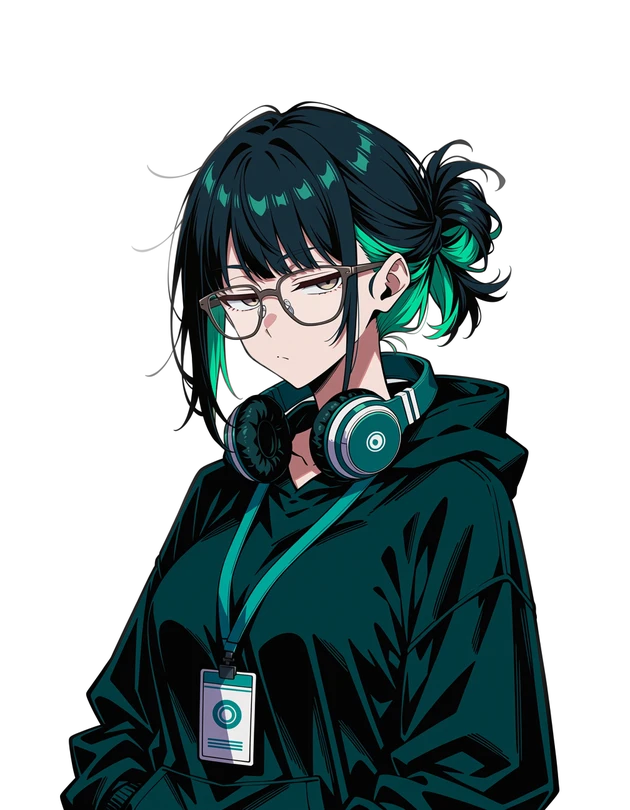
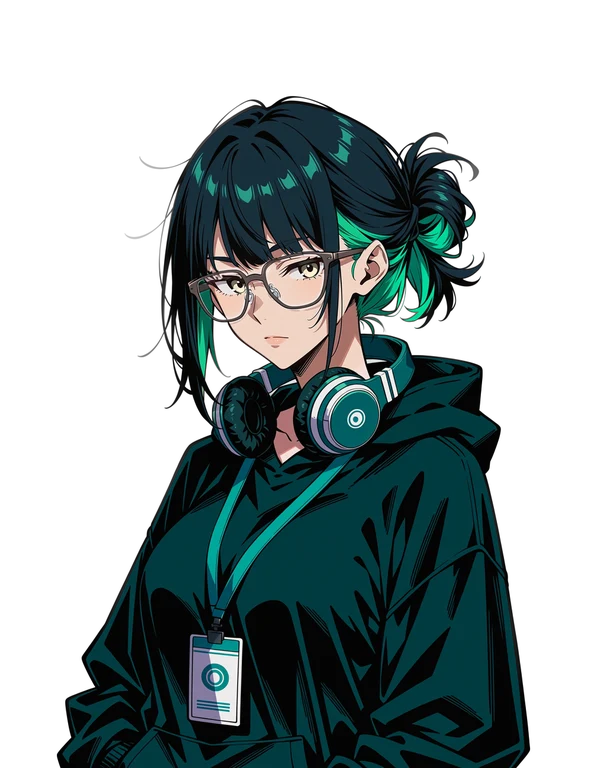
game3d: Mio's approved v3 expressions (neutral, smile, deadpan, surprised, embarrassed, tired), placed by her face box; her clear lines tagged
Claude-Session: https://claude.ai/code/session_01De42hGxD43zvtRt5qbbiWq

diff --git a/game3d/story/train.js b/game3d/story/train.js
@@ -69,10 +69,10 @@ export default {
       { do: 'sit', who: 'eric', at: 'seat_far_r' },
       { set: 'sat' },
       { do: 'goal', text: '' },
-      { say: 'mio', name: 'Woman with a laptop', text: "Eh... B2? You're going to B2?" },
+      { say: 'mio', name: 'Woman with a laptop', face: 'surprised', text: "Eh... B2? You're going to B2?" },
       { say: 'eric', face: 'tired', text: "Yeah, IT support. I'm the contractor, it's my first day." },
-      "mio: Ahh, the IT upgrade. Mori-san said a {gaijin} is coming to fix everything. That's you?",
-      "mio: I'm Mio. I'm also B2, so... same team, I guess.",
+      { say: 'mio', face: 'deadpan', text: "Ahh, the IT upgrade. Mori-san said a {gaijin} is coming to fix everything. That's you?" },
+      { say: 'mio', face: 'neutral', text: "I'm Mio. I'm also B2, so... same team, I guess." },
       { set: 'mio_named' },
       { choice: [
         { text: '“I\'m Eric.”', go: 'its_eric' },
@@ -87,7 +87,7 @@ export default {
     family: [
       { inc: 'mio_warm' },
       'mio: Mm. I stayed at her place last night, on the mainland.',
-      "mio: She always packs too much. Like I'm moving to another country.",
+      { say: 'mio', face: 'tired', text: "She always packs too much. Like I'm moving to another country." },
       { go: 'lesson' },
     ],
     leave_it: [
@@ -98,20 +98,20 @@ export default {
     lesson: [
       'mio: Ne... sorry. Where are you from?',
       'eric: Norway.',
-      'mio: Norway... okay. And Japanese? You speak it, like, at all?',
+      { say: 'mio', face: 'neutral', text: "Norway... okay. And Japanese? You speak it, like, at all?" },
       { choice: [
         { text: '“ありがとう (arigatō). That\'s about it.”', go: 'jp_one' },
         { text: '“Not really.”', go: 'jp_none' },
       ] },
     ],
     jp_one: ["mio: Okay, arigatō is good. You'll use that one a lot.", { go: 'lesson2' }],
-    jp_none: ['mio: Ah... okay. Wow.', { go: 'lesson2' }],
+    jp_none: [{ say: 'mio', face: 'deadpan', text: "Ah... okay. Wow." }, { go: 'lesson2' }],
     lesson2: [
       "mio: You know it's all Amakawa people on the island, right? Nobody speaks English. Even at the supermarket.",
-      "mio: And Mori-san is going to be so polite with you, and you'll just stand there.",
-      "mio: えっと, okay. First one, {ohayo}. You say it to everybody in the morning. The guard at the gate is really strict about it.",
+      { say: 'mio', face: 'smile', text: "And Mori-san is going to be so polite with you, and you'll just stand there." },
+      { say: 'mio', face: 'neutral', text: "えっと, okay. First one, {ohayo}. You say it to everybody in the morning. The guard at the gate is really strict about it." },
       { do: 'type', word: 'ohayo', from: 'mio', prompt: "mio: Say it to me, it's fine." },
-      'mio: {ohayo}. Mm, okay, not bad.',
+      { say: 'mio', face: 'smile', text: "{ohayo}. Mm, okay, not bad." },
       "mio: Try the cat, over there. She rides this train every morning, she won't judge you.",
       { set: 'cat_task' },
       { do: 'goal', text: 'Say good morning to the cat.' },
@@ -123,15 +123,15 @@ export default {
       { unset: 'cat_task' },
       { do: 'goal', text: '' },
       '> A slow blink.',
-      "mio: See? She's fine with it.",
+      { say: 'mio', face: 'smile', text: "See? She's fine with it." },
       { do: 'emote', who: 'kuroda', kind: 'zzz' },
       "mio: She's more awake than that guy, anyway. He's on this train every morning too, asleep the whole way, and like once a month he misses our stop and ends up back on the mainland.",
-      "mio: Anyway, when you meet someone new, it's {yoroshiku}. Like \"nice to meet you\", but more like \"please be nice to me\".",
+      { say: 'mio', face: 'neutral', text: "Anyway, when you meet someone new, it's {yoroshiku}. Like \\\"nice to meet you\\\", but more like \\\"please be nice to me\\\"." },
       { do: 'type', word: 'yoroshiku', from: 'mio', prompt: 'mio: We just met, so... say it to me.' },
       'mio: {yoroshiku}.',
       'mio: With Mori-san, bow a little when you say it. He likes that.',
       { if: 'mio_warm >= 2', then: [
-        'mio: Here, take a pickle. My mother made, like, way too many.',
+        { say: 'mio', face: 'embarrassed', text: "Here, take a pickle. My mother made, like, way too many." },
       ] },
       { go: 'approach' },
     ],
@@ -163,7 +163,7 @@ export default {
       { do: 'doorsClose', to: 0.35, ms: 20000 },
       { do: 'face', who: 'mio', to: 'kuroda' },
       { do: 'emote', who: 'kuroda', kind: 'zzz' },
-      "mio: Ah, no, he's still asleep...",
+      { say: 'mio', face: 'surprised', text: "Ah, no, he's still asleep..." },
       { do: 'face', who: 'mio', to: 'door_l' },
       { do: 'gesture', who: 'mio', kind: 'point' },
       'mio: {matte}! Hey, {matte}!',
@@ -180,7 +180,7 @@ export default {
       { set: 'held_doors' },
       { do: 'face', who: 'mio', to: 'door_l' },
       { wait: 700 },
-      "mio: ...Doors don't do that. They stop for a bag or something, but yelling does nothing, I've tried like a hundred times.",
+      { say: 'mio', face: 'surprised', text: "...Doors don't do that. They stop for a bag or something, but yelling does nothing, I've tried like a hundred times." },
       { do: 'face', who: 'mio', to: 'eric' },
       { choice: [
         { text: '“Did I do that?”', go: 'did_i' },
@@ -188,16 +188,16 @@ export default {
       ] },
     ],
     did_i: [
-      "mio: I don't know. I said it too and nothing happened, so...",
+      { say: 'mio', face: 'neutral', text: "I don't know. I said it too and nothing happened, so..." },
       { go: 'mio_tests' },
     ],
     did_quiet: [{ go: 'mio_tests' }],
     mio_tests: [
-      "mio: Um, don't tell anyone, okay? If someone makes a ticket for it, it comes to me.",
+      { say: 'mio', face: 'embarrassed', text: "Um, don't tell anyone, okay? If someone makes a ticket for it, it comes to me." },
       { do: 'sound', name: 'beep' },
       "mio: あー, no, no... Sorry, a server is down, I have to run. Your card won't work until nine, I think, so you'll have to talk to the guard.",
       { if: 'mio_warm >= 2', then: [
-        'mio: Remember, {ohayo} first. Okay, see you downstairs.',
+        { say: 'mio', face: 'smile', text: "Remember, {ohayo} first. Okay, see you downstairs." },
       ], else: [
         'mio: {ohayo} first, okay? Bye, {gaijin}.',
       ] },

diff --git a/game3d/story/office.js b/game3d/story/office.js
@@ -200,7 +200,7 @@ export default {
     akete_machine: [
       { do: 'machineDoor', state: 'open' },
       { do: 'emote', who: 'mio', kind: '…' },
-      "mio: ...That door has a card reader, you know.",
+      { say: 'mio', face: 'deadpan', text: "...That door has a card reader, you know." },
       { set: 'machine_open' },
       { set: 'door_magic' },
     ],
@@ -219,19 +219,19 @@ export default {
     ticket: [
       { set: 'got_ticket' },
       { do: 'meet', who: 'mio' },
-      "mio: Okay, your first ticket. I changed your screen to English, by the way.",
+      { say: 'mio', face: 'neutral', text: "Okay, your first ticket. I changed your screen to English, by the way." },
       '> TICKET #1. Copier, B2 copy room. Eats paper. Opened 1 April 1996.',
       { say: 'eric', face: 'surprised', text: 'Nineteen ninety-six?' },
       "mio: Yeah. It's kind of a tradition now, nobody closes it. Mori-san knows the copier, he can show you.",
       { say: 'mio', text: '森さん、{gaijin}にコピー機お願い。', overheard: true },
       { say: 'mori', text: '外国の方、ですよ。', overheard: true },
-      "mio: He says I should say gaikoku no kata. It's more polite. ...Anyway, go.",
+      { say: 'mio', face: 'embarrassed', text: "He says I should say gaikoku no kata. It's more polite. ...Anyway, go." },
       { do: 'walk', who: 'mori', to: 'copier_front', wait: true },
       { do: 'goal', text: 'Ticket #1: the copier.' },
     ],
     mio_busy: [
       { if: 'afternoon_on', then: ["mio: Now people upstairs ask me about the copier. ...Sorry, I'm busy.", { end: true }] },
-      "mio: Mm, sorry, I'm in the middle of something.",
+      { say: 'mio', face: 'tired', text: "Mm, sorry, I'm in the middle of something." },
     ],
     copier: [
       { set: 'copier_started' },
@@ -260,7 +260,7 @@ export default {
     ticket_done: [
       { set: 'ticket_closed' },
       "eric: The copier's fixed.",
-      "mio: Eh? The B2 copier? It's older than me, nobody can fix that.",
+      { say: 'mio', face: 'surprised', text: "Eh? The B2 copier? It's older than me, nobody can fix that." },
       'eric: I asked it nicely.',
       { do: 'emote', who: 'mio', kind: '…' },
       "mio: ...Okay. Okay, I'll close it. Um. It's lunch anyway.",
@@ -273,7 +273,7 @@ export default {
       { set: 'lunch_on' },
       '> 12:10.',
       { do: 'walk', who: 'mori', to: 'kitchen_table', wait: false },
-      "mio: I usually eat in the machine room. It's quiet, and nobody talks to me there.",
+      { say: 'mio', face: 'neutral', text: "I usually eat in the machine room. It's quiet, and nobody talks to me there." },
       { choice: [
         { text: 'Lunch with Mio, in the machine room', go: 'lunch_mio' },
         { text: 'Lunch with Mori, in the kitchenette', go: 'lunch_mori' },
@@ -292,8 +292,8 @@ export default {
       ] },
     ],
     mio_b2: [
-      "mio: Upstairs you have to bow to everybody all day, it's so tiring. Down here it's just me and these guys.",
-      "mio: They're from the nineties. If I don't watch them, they just... die.",
+      { say: 'mio', face: 'tired', text: "Upstairs you have to bow to everybody all day, it's so tiring. Down here it's just me and these guys." },
+      { say: 'mio', face: 'smile', text: "They're from the nineties. If I don't watch them, they just... die." },
       { go: 'mio_lunch_end' },
     ],
     mio_doors: [
@@ -322,7 +322,7 @@ export default {
       "mio: Wait. You try it. {tomatte}, it means stop. ...I want to see something.",
       { do: 'type', word: 'tomatte', from: 'mio', prompt: 'mio: Go on.' },
       { do: 'rackAlarm', state: 'off' },
-      { if: 'mio_warm >= 1', then: ['mio: ...Okay. You can eat here tomorrow also, if you want.'], else: ['mio: Huh. Okay.'] },
+      { if: 'mio_warm >= 1', then: [{ say: 'mio', face: 'embarrassed', text: "...Okay. You can eat here tomorrow also, if you want." }], else: ['mio: Huh. Okay.'] },
       { do: 'cam', back: true },
     ],
 
@@ -403,12 +403,12 @@ export default {
 
     gift_mio_coffee: [
       { set: 'gifted_mio' }, { do: 'bond', who: 'mio', add: 1 },
-      'mio: Oh, black. Nice, thank you.',
+      { say: 'mio', face: 'smile', text: "Oh, black. Nice, thank you." },
       '> She drinks half of it without looking away from her screen.',
     ],
     gift_mio_other: [
       { set: 'gifted_mio' },
-      "mio: Ah... thanks. It's a bit sweet for me. I'll drink it later, maybe.",
+      { say: 'mio', face: 'deadpan', text: "Ah... thanks. It's a bit sweet for me. I'll drink it later, maybe." },
     ],
     gift_mori_cornsoup: [
       { set: 'gifted_mori' }, { do: 'bond', who: 'mori', add: 1 },
@@ -446,14 +446,14 @@ export default {
       { if: 'gate_magic', then: ["mio: This morning, the train doors... then the copier. And Kenji says the gate opened by itself, everybody's talking about it."], else: ['mio: This morning, the train doors... and then the copier.'] },
       { if: 'door_magic', then: ['mio: My door too. I saw it.'] },
       { if: 'lunch_mio', then: ['mio: And the rack, at lunch.'] },
-      "mio: How are you doing that?",
+      { say: 'mio', face: 'surprised', text: "How are you doing that?" },
       { do: 'save' },
       { do: 'end' },
     ],
 
     // ------------------------------------------------------------------ greetings to Mio
-    ohayo_mio: ["mio: Ha, too polite. I'm not your boss. Just おはよう (ohayō) is fine."],
-    yoroshiku_mio: ['mio: We did that already, on the train.'],
+    ohayo_mio: [{ say: 'mio', face: 'smile', text: "Ha, too polite. I'm not your boss. Just おはよう (ohayō) is fine." }],
+    yoroshiku_mio: [{ say: 'mio', face: 'deadpan', text: "We did that already, on the train." }],
     sumimasen_mio: ['mio: Hm? What is it?'],
 
     // ------------------------------------------------------------------ things to poke

diff --git a/game3d/js/ui.js b/game3d/js/ui.js
@@ -239,7 +239,7 @@ const FACE = {
   aoi: { W: 630, H: 810, f: [222, 196, 413, 389] }, eric: { W: 597, H: 768, f: [218, 211, 390, 402] },
   guard: { W: 597, H: 768, f: [250, 162, 374, 300] }, kenji: { W: 597, H: 768, f: [229, 169, 371, 330] },
   kuro: { W: 630, H: 809, f: [254, 325, 452, 525] }, kuroda: { W: 597, H: 768, f: [240, 154, 364, 313] },
-  mio: { W: 630, H: 810, f: [201, 224, 383, 402] }, mori: { W: 597, H: 768, f: [234, 171, 372, 339] },
+  mio: { W: 597, H: 768, f: [192, 214, 361, 383] }, mori: { W: 597, H: 768, f: [234, 171, 372, 339] },
 };
 const EMOTE_FACE = { '?': ['suspicious', 'deadpan', 'stern'], '!': ['surprised', 'panicked', 'panic'], '♪': ['smile', 'grin', 'amused'], heart: ['smile', 'embarrassed', 'grin'], sweat: ['flustered', 'embarrassed', 'sheepish', 'panicked'], zzz: ['sleepy', 'tired'], '…': ['tired', 'deadpan'] };
 const faceNow = {};

diff --git a/game3d/story/FORMAT.md b/game3d/story/FORMAT.md
@@ -220,7 +220,8 @@ Commands `irete` 入れて, `dashite` 出して, `tomatte` 止まって (voiced)
 ## Portraits (VN style)
 
 The speaker's approved portrait shows beside the text box (desktop: large at the left; phone: smaller, above the box). Eric's shows smaller on the right on his lines, and the listener dims. Narration shows none. Faces that exist:
-- `mio`, `aoi`, `kuro`: `neutral` (cut-outs of the approved bible portraits). New expressions will be repainted from those portraits later.
+- `mio`: `neutral`, `smile`, `deadpan`, `surprised`, `embarrassed`, `tired` (v3, approved).
+- `aoi`, `kuro`: `neutral`.
 - PROVISIONAL (the art agent's picks, used as defaults until Jørgen approves or replaces them):
   - `eric`: `neutral`, `surprised` (seed 734 v2), `tired` (seed 811, Jørgen's pick)
   - `mori`: `neutral`, `smile`, `flustered` (seed 713)
